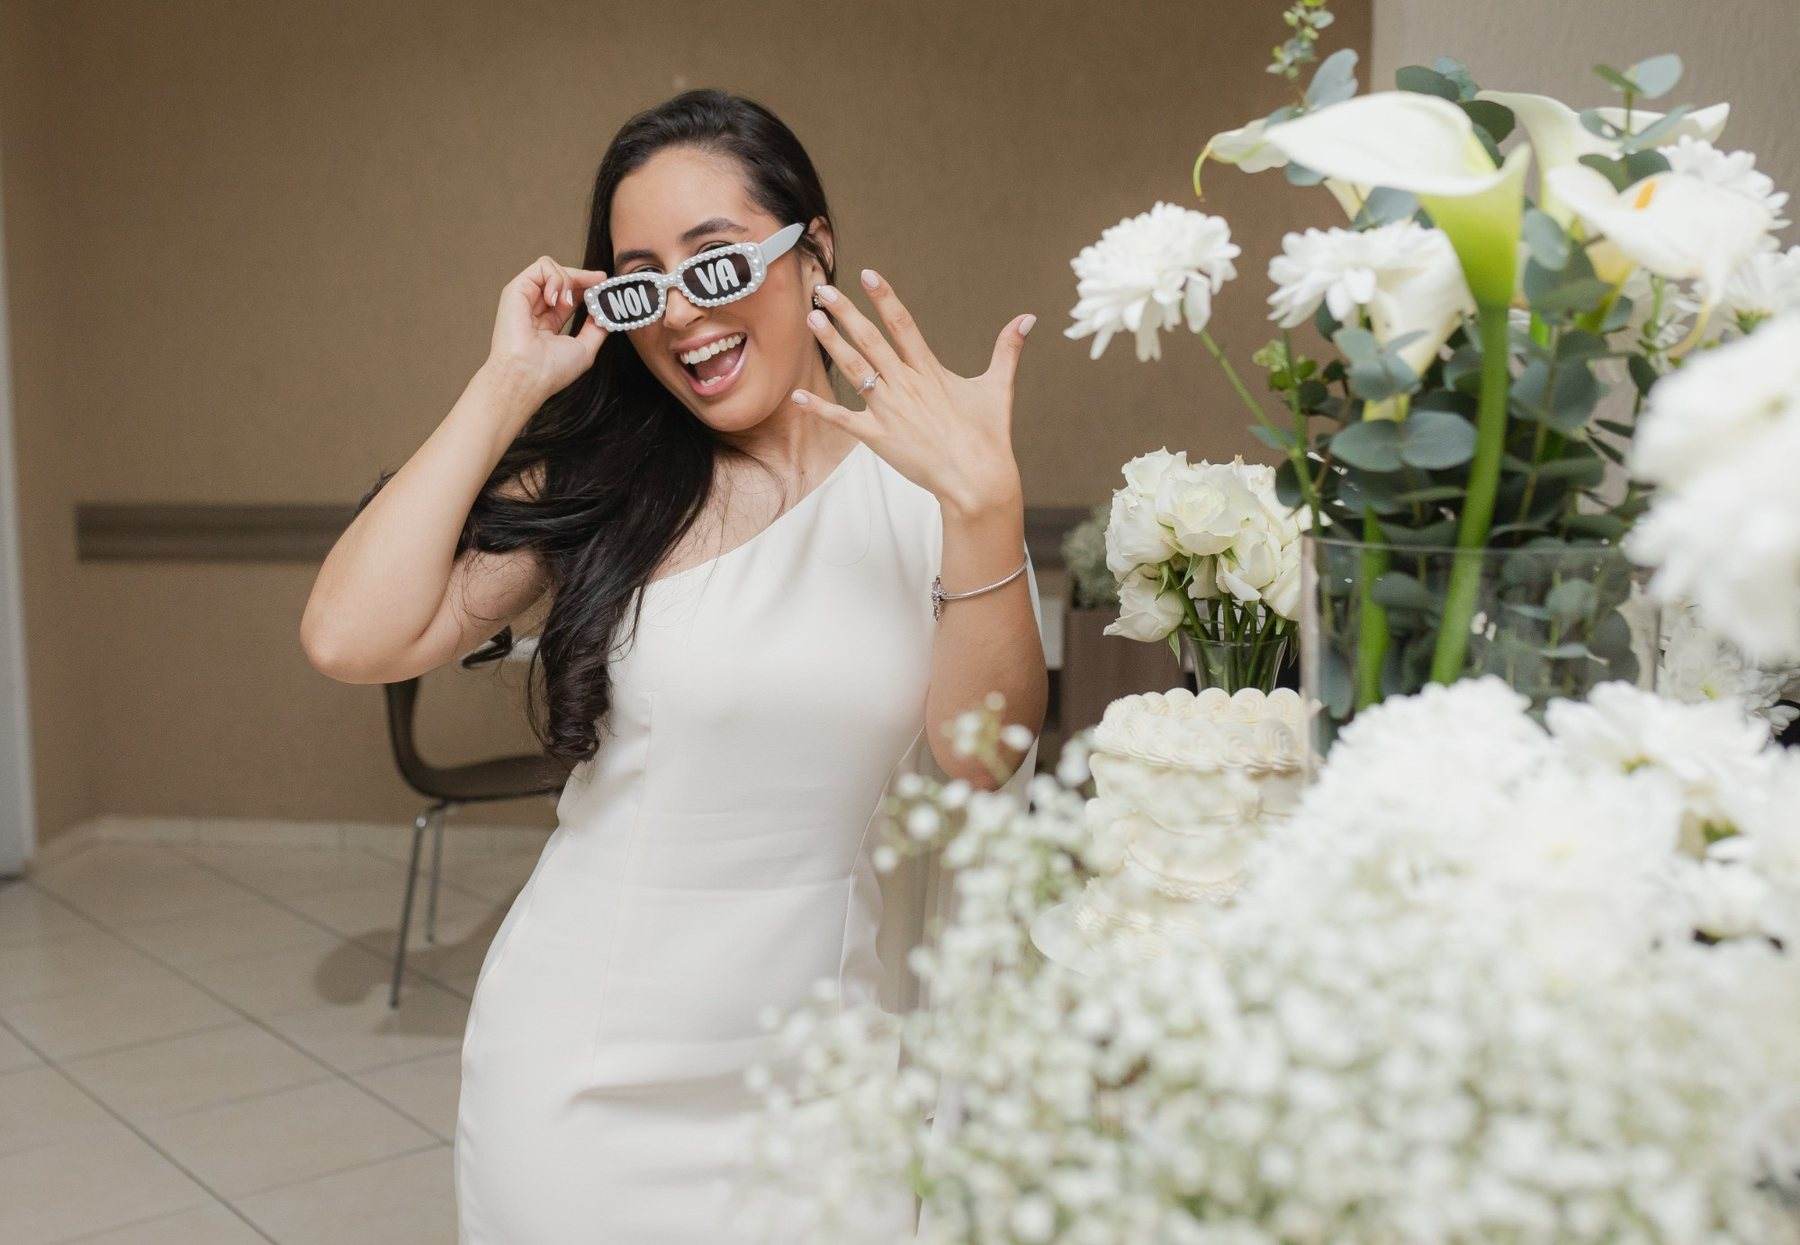
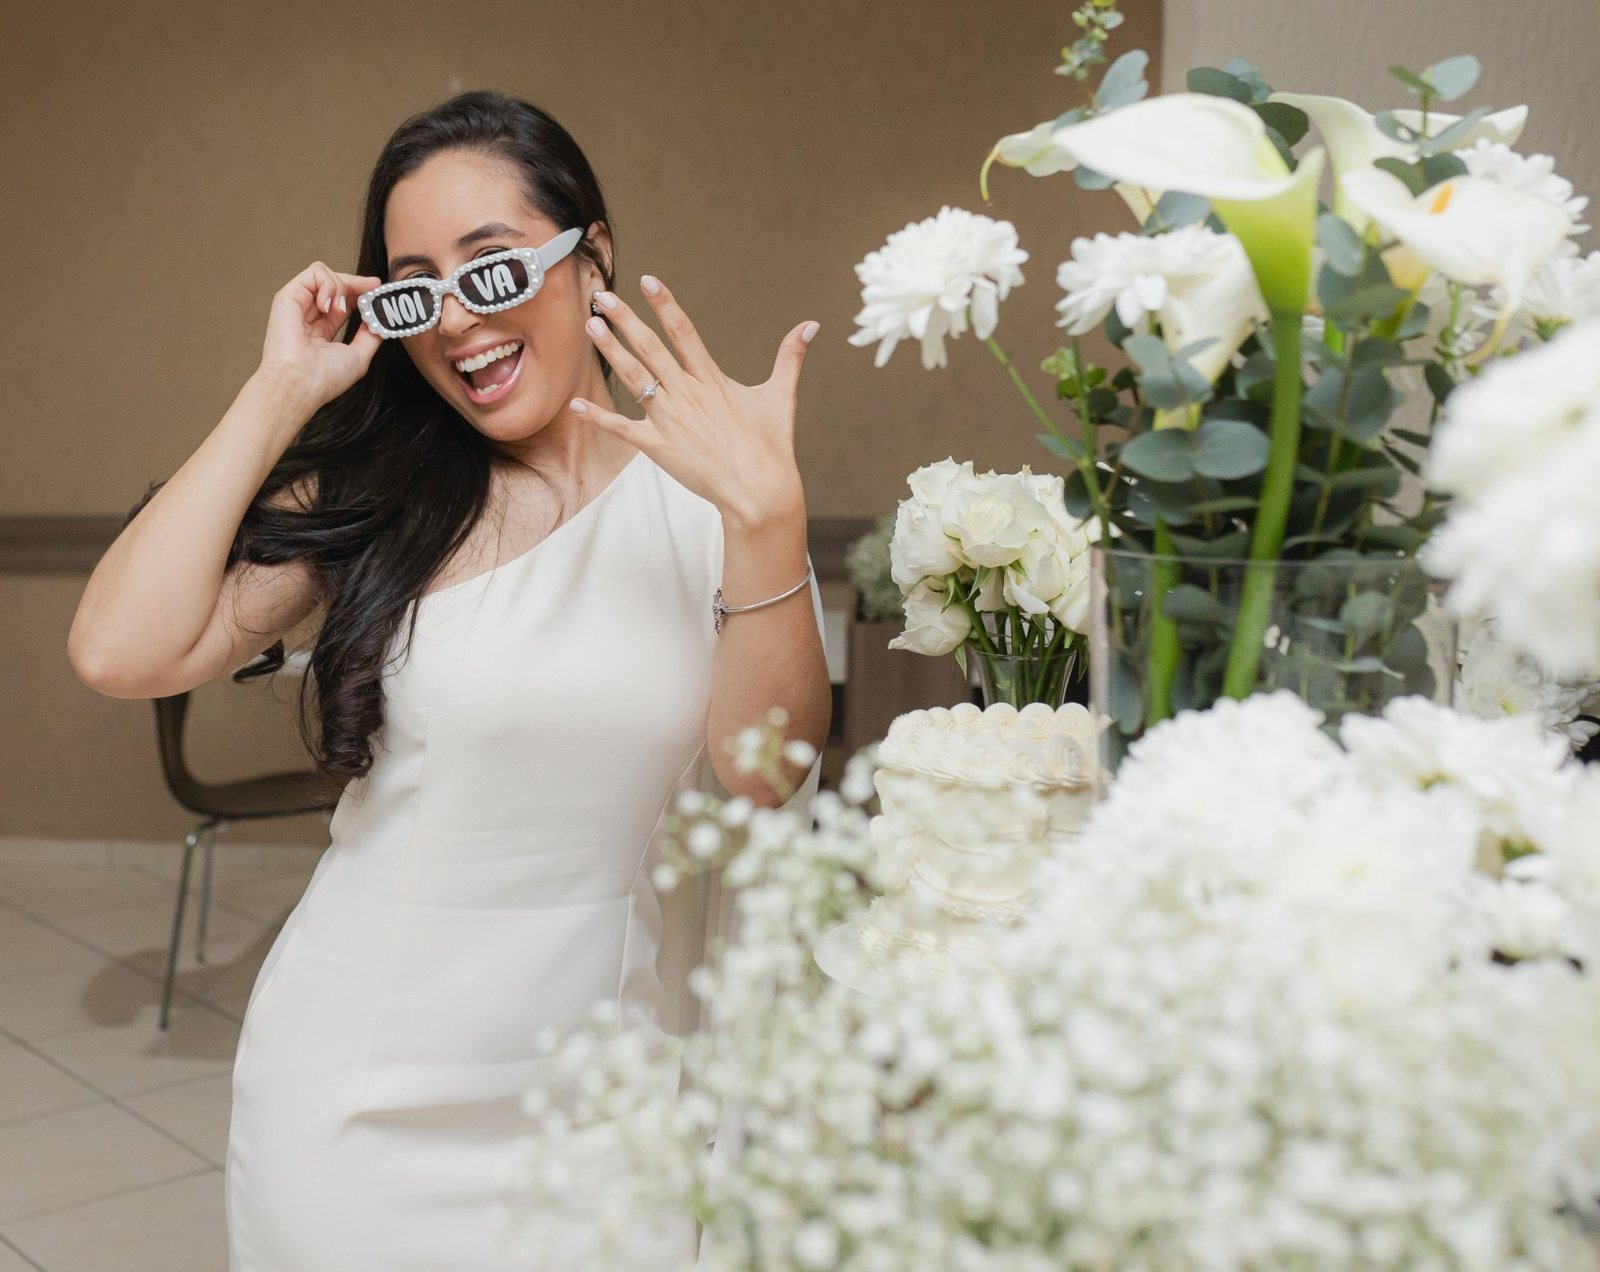
Capa com a foto à esquerda e contagem regressiva para o casamento
Claude-Session: https://claude.ai/code/session_0193tNyNcaWNyPkEFRoG7pwH

diff --git a/index.html b/index.html
@@ -57,9 +57,10 @@ h2{font-size:clamp(2.7rem,6vw,4.4rem);color:var(--vermelho)}
 .foto .laco{position:absolute;z-index:3;left:var(--lx,50%);top:-26px;width:var(--lw,50px);transform:translateX(-50%) rotate(var(--lr,0deg));color:var(--vermelho)}
 
 /* ====== capa: foto em tela cheia, texto por cima do lado das flores ====== */
-.capa{position:relative;min-height:min(92vh,880px);display:flex;align-items:center;justify-content:flex-end;color:var(--branco);background:var(--vinho) var(--capa-l,none) 28% 30%/cover no-repeat;overflow:hidden}
-.capa::before{content:"";position:absolute;inset:0;background:linear-gradient(90deg,rgba(62,13,22,0) 28%,rgba(62,13,22,.45) 50%,rgba(62,13,22,.82) 78%),linear-gradient(0deg,rgba(62,13,22,.35),rgba(62,13,22,0) 30%)}
-.capa .in{position:relative;width:min(560px,100%);margin-right:clamp(22px,6vw,7rem);padding-block:5rem}
+.capa{position:relative;min-height:min(92vh,880px);display:flex;align-items:center;justify-content:flex-end;color:var(--branco);background:var(--vinho-dk);overflow:hidden}
+.capa-img{position:absolute;left:0;top:0;bottom:0;width:auto;height:100%;aspect-ratio:1600/1272;max-width:78%;background:var(--capa-l,none) left 30%/cover no-repeat;-webkit-mask-image:linear-gradient(90deg,#000 62%,transparent 98%);mask-image:linear-gradient(90deg,#000 62%,transparent 98%)}
+.capa::before{content:"";position:absolute;inset:0;z-index:1;pointer-events:none;background:radial-gradient(ellipse at 85% 50%,rgba(176,30,43,.35),transparent 60%),linear-gradient(0deg,rgba(62,13,22,.35),rgba(62,13,22,0) 30%)}
+.capa .in{position:relative;z-index:2;width:min(540px,100%);margin-right:clamp(22px,6vw,7rem);padding-block:5rem}
 .capa .marca{display:inline-flex;align-items:center;gap:.6rem;margin-bottom:1.6rem;font-family:var(--f-script);font-size:1.9rem;line-height:1}
 .capa .marca .laco-ico{width:40px;color:var(--branco)}
 .capa .rotulo{color:var(--blush)}
@@ -71,7 +72,8 @@ h2{font-size:clamp(2.7rem,6vw,4.4rem);color:var(--vermelho)}
 .contagem b{display:block;font-family:var(--f-disp);font-weight:500;font-size:2.1rem;line-height:1;font-variant-numeric:lining-nums tabular-nums}
 .contagem span{font-size:.62rem;letter-spacing:.28em;text-transform:uppercase;opacity:.85}
 @media (max-width:860px){
-  .capa{min-height:min(100svh,900px);align-items:flex-end;justify-content:center;background-image:var(--capa-m,var(--capa-l,none));background-position:center 0%;background-size:100% auto;background-color:var(--vinho-dk)}
+  .capa-img{display:none}
+  .capa{min-height:min(100svh,900px);align-items:flex-end;justify-content:center;background-repeat:no-repeat;background-image:var(--capa-m,var(--capa-l,none));background-position:center 0%;background-size:100% auto;background-color:var(--vinho-dk)}
   .capa::before{background:linear-gradient(180deg,rgba(62,13,22,0) 34%,rgba(62,13,22,.62) 50%,rgba(62,13,22,.96) 62%,#3e0d16 68%)}
   .capa .in{margin:0;padding:0 22px 2rem;text-align:center}
   .capa .marca{display:none}
@@ -280,6 +282,19 @@ textarea{min-height:110px;resize:vertical;border:1px solid var(--linha);padding:
 .recado footer{margin-top:.7rem;font-weight:500;font-size:.64rem;letter-spacing:.22em;text-transform:uppercase;color:var(--vermelho)}
 .mural-vazio{opacity:.85;font-style:italic;column-span:all}
 
+/* contagem para o casamento */
+.sim{background:var(--vermelho);color:var(--branco);text-align:center;padding-block:5.5rem;overflow:hidden}
+.sim .laco-ico{display:block;width:58px;margin:0 auto 1.2rem;color:var(--branco)}
+.sim .rotulo{color:var(--blush)}
+.sim h2{color:var(--branco)}
+.sim-num{display:flex;justify-content:center;gap:clamp(.6rem,3vw,2rem);margin-top:2.6rem;flex-wrap:wrap}
+.sim-num div{min-width:clamp(72px,16vw,150px);padding:1.2rem .6rem 1rem;border:1px solid rgba(255,250,248,.45);border-radius:18px;background:rgba(255,250,248,.06)}
+.sim-num b{display:block;font-family:var(--f-disp);font-weight:500;font-size:clamp(2.4rem,7vw,4.6rem);line-height:1;font-variant-numeric:lining-nums tabular-nums}
+.sim-num span{display:block;margin-top:.5rem;font-size:.62rem;letter-spacing:.26em;text-transform:uppercase;color:var(--blush)}
+.sim-txt{font-size:clamp(2.2rem,5vw,3.2rem);margin-top:2.4rem;color:var(--blush)}
+.sim-quando{margin-top:.8rem;font-weight:500;font-size:.74rem;letter-spacing:.3em;text-transform:uppercase}
+@media (max-width:520px){.sim-num{display:grid;grid-template-columns:repeat(4,1fr);gap:.4rem}.sim-num div{min-width:0;padding:.9rem .2rem .7rem;border-radius:12px}.sim-num span{letter-spacing:.12em;font-size:.55rem}}
+
 /* rodapé */
 .rodape{background:var(--creme);text-align:center;padding-block:4.5rem calc(4.5rem + env(safe-area-inset-bottom))}
 .rodape .laco-ico{width:56px;margin:0 auto;color:var(--vermelho)}
@@ -297,7 +312,8 @@ textarea{min-height:110px;resize:vertical;border:1px solid var(--linha);padding:
 </head>
 <body>
 
-<header class="capa" id="inicio" role="img" aria-label="Foto da noiva">
+<header class="capa" id="inicio">
+  <div class="capa-img" role="img" aria-label="Foto da noiva"></div>
   <div class="in">
     <div class="marca"><span class="laco-ico" data-svg="laco"></span><span id="marca-casal">Dani &amp; Léo</span></div>
     <span class="rotulo">chá de cozinha &amp; lingerie</span>
@@ -488,6 +504,22 @@ textarea{min-height:110px;resize:vertical;border:1px solid var(--linha);padding:
   </div>
 </section>
 
+<section class="sim" id="casamento">
+  <div class="wrap">
+    <span class="laco-ico" data-svg="laco"></span>
+    <span class="rotulo" id="sim-rot">e depois do chá…</span>
+    <h2>contagem para o sim.</h2>
+    <div class="sim-num" aria-live="off">
+      <div><b id="cs-d">0</b><span>dias</span></div>
+      <div><b id="cs-h">0</b><span>horas</span></div>
+      <div><b id="cs-m">0</b><span>minutos</span></div>
+      <div><b id="cs-s">0</b><span>segundos</span></div>
+    </div>
+    <div class="script sim-txt" id="sim-txt"></div>
+    <div class="sim-quando" id="sim-quando"></div>
+  </div>
+</section>
+
 <footer class="rodape">
   <span class="laco-ico" data-svg="laco" style="display:block"></span>
   <div class="xo" id="rod-xo">xoxo, Dani</div>
@@ -555,7 +587,7 @@ function preencher(){
   document.querySelectorAll("[data-svg]").forEach(n=>{n.innerHTML=DES[n.dataset.svg]||""});
   const noiva=C.apelidoNoiva,casal=C.apelidoNoiva+" & "+C.apelidoNoivo;
   document.title="A "+noiva+" vai casar";
-  [["--capa-l",C.fotos.capaHero||C.fotos.local],["--capa-m",C.fotos.capaHeroCelular]].forEach(([v,src])=>{if(!src)return;const im=new Image();im.onload=()=>$("inicio").style.setProperty(v,"url('"+src+"')");im.src=src});
+  [["--capa-l",C.fotos.capaHero||C.fotos.local],["--capa-m",C.fotos.capaHeroCelular]].forEach(([v,src])=>{if(!src)return;const im=new Image();im.onload=()=>document.documentElement.style.setProperty(v,"url('"+src+"')");im.src=src});
   $("marca-casal").textContent=casal;
   $("titulo-capa").textContent="a "+noiva.toLowerCase()+" vai casar.";
   $("capa-data").textContent=dd2+" · "+mm2+" · "+aa+"  ·  "+C.cidade;
@@ -598,6 +630,8 @@ function preencher(){
   $("rod-xo").textContent="xoxo, "+noiva;
   $("rod-casamento").textContent=casal+" · casamento "+C.casamento;
 }
+const casamento=C.casamentoISO?new Date(C.casamentoISO):null;
+function contaSim(){if(!casamento)return;const s=Math.max(0,(casamento-Date.now())/1000);$("cs-d").textContent=Math.floor(s/86400);$("cs-h").textContent=String(Math.floor(s%86400/3600)).padStart(2,"0");$("cs-m").textContent=String(Math.floor(s%3600/60)).padStart(2,"0");$("cs-s").textContent=String(Math.floor(s%60)).padStart(2,"0")}
 function contagem(){const s=Math.max(0,(inicio-Date.now())/1000);$("cd-d").textContent=Math.floor(s/86400);$("cd-h").textContent=Math.floor(s%86400/3600);$("cd-m").textContent=Math.floor(s%3600/60)}
 
 /* ================= API (Google Apps Script) ================= */
@@ -704,7 +738,9 @@ $("form-recado").addEventListener("submit",async e=>{
 /* ================= início ================= */
 document.querySelectorAll(".aba").forEach(b=>b.addEventListener("click",()=>{S.aba=b.dataset.aba;S.abrindo=null;render()}));
 document.querySelectorAll(".chip").forEach(b=>b.addEventListener("click",()=>{S.filtro=b.dataset.f;render()}));
-preencher();contagem();setInterval(contagem,30000);render();renderMural();carregarEstado();
+preencher();contagem();setInterval(contagem,30000);
+if(casamento){const ds=casamento.toLocaleDateString("pt-BR",{weekday:"long",day:"numeric",month:"long",year:"numeric",timeZone:"America/Sao_Paulo"}),hs=casamento.toLocaleTimeString("pt-BR",{hour:"2-digit",minute:"2-digit",timeZone:"America/Sao_Paulo"}).replace(":","h");
+  $("sim-txt").textContent="para "+C.apelidoNoiva+" & "+C.apelidoNoivo+" dizerem sim";$("sim-quando").textContent=ds+" · "+hs+(C.casamentoLocal?" · "+C.casamentoLocal:"");contaSim();setInterval(contaSim,1000)}else{$("casamento").hidden=true}render();renderMural();carregarEstado();
 setInterval(()=>{if(!S.abrindo&&!document.hidden)carregarEstado()},45000);
 const salvo=ls("cha_rsvp");if(salvo){$("r-nome").value=salvo.nome;$("r-whats").value=salvo.whatsapp||"";(salvo.vai==="sim"?$("r-sim"):$("r-nao")).checked=true;$("r-obs").value=salvo.obs||"";mostrarOk(salvo)}
 const nm=ls("cha_nome");if(nm){if(!$("r-nome").value)$("r-nome").value=nm;$("m-nome").value=nm}

diff --git a/config.js b/config.js
@@ -14,6 +14,8 @@ window.CONFIG = {
 
   // Casamento (aparece no rodapé)
   casamento: "20 · 03 · 2027 · Villa Castanieri",
+  casamentoISO: "2027-03-20T15:30:00-03:00", // data e hora do casamento (contagem no final do site)
+  casamentoLocal: "Villa Castanieri · Mogi das Cruzes",
 
   // Faixa que passa rolando no topo
   faixa: ["A Dani vai casar!", "Chá de Cozinha & Lingerie", "The Bride Club", "Madrinhas de vermelho", "Convidadas de rosa"],
